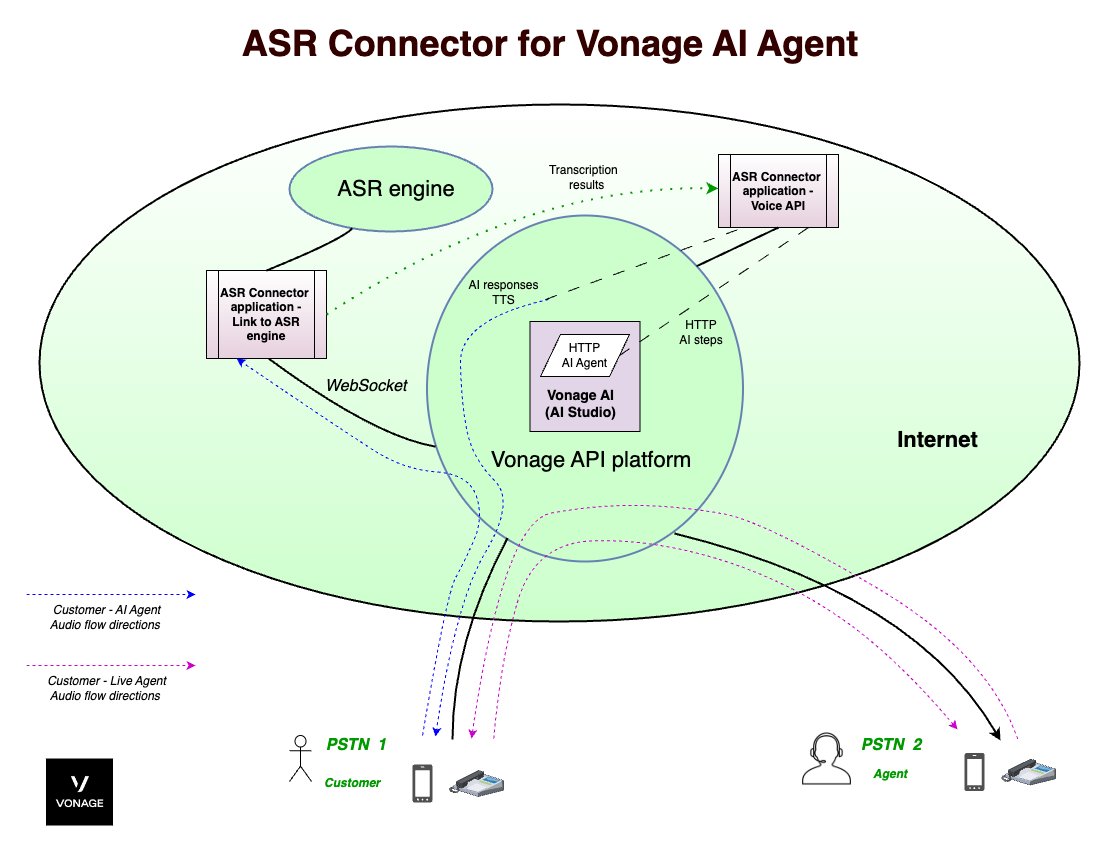
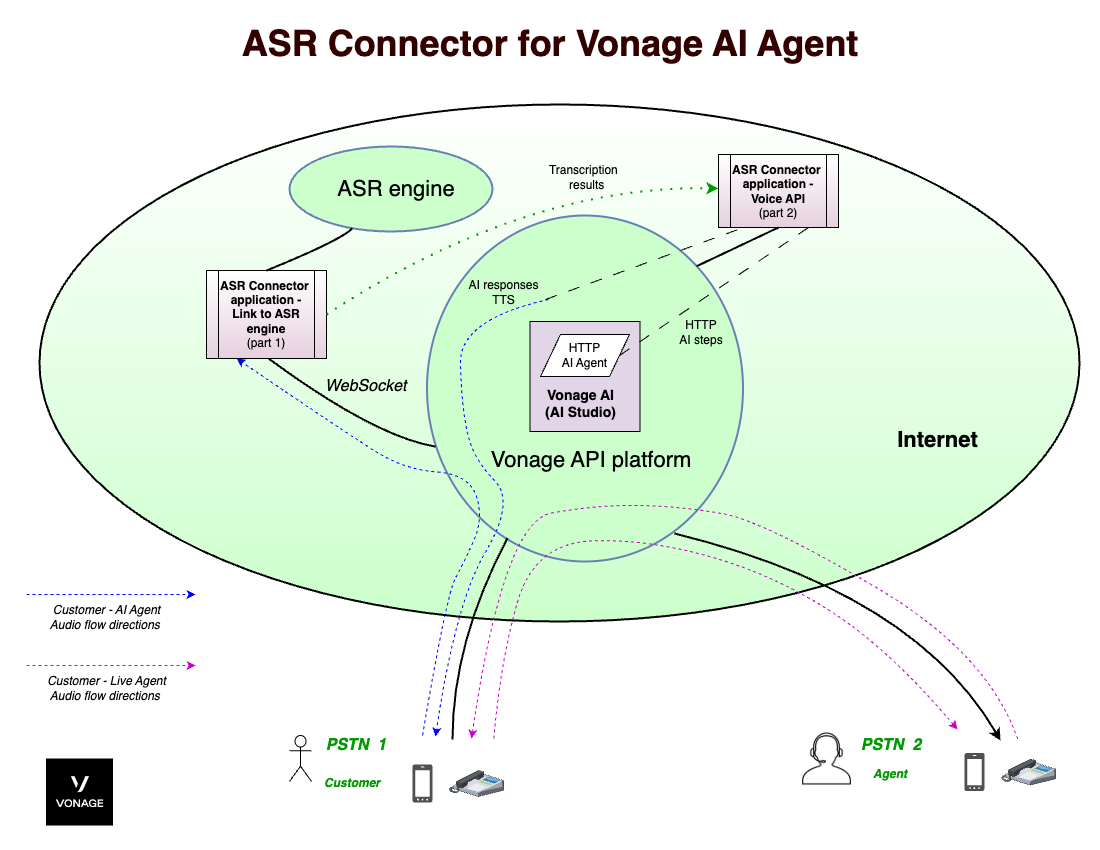
diagram

Changed region(s): [[0.1855, 0.3059, 0.2782, 0.4282], [0.6491, 0.1835, 0.7418, 0.2753]]

diff --git a/README.md b/README.md
@@ -1,7 +1,35 @@
-
-# Connector for Vonage AI Studio to use an external ASR engine
+# ASR Connector for Vonage AI Studio to use an external ASR engine
 
 >>> TBD update below content <<< NOT RELEVANT AT THE MOMENT !!!!!!!
+
+## What this sample HTTP AI Agent and ASR Connector do
+
+It shows you can use a third-party ASR (Automatic Speech Recognition) engine with a Vonage AI Agent.</br>
+
+An HTTP type **AI agent** (created in or imported to Vonage AI Studio) uses the **ASR Connector** to handle the voice connectivity including PSTN phone calls, WebRTC calls, or SIP calls, and the ASR engine connection, for speech recognition.
+
+How the call flow happens with the sample HTTP AI Agent and the ASR Connector in this repository,
+- A phone call is established first with, let's say, a customer,
+- Customer interacts with the Voice bot (via the AI agent),
+- Call gets transferred to, let's say, a live agent, and connection with the AI agent is terminated
+
+## How this sample HTTP AI Agent and ASR Connector work
+
+See also the diagram _vonage-ai-asr-connector.png_.
+
+In this diagram, the **ASR Connector** application is shown in two parts for easier description, however both parts are in one source code file in this repository.
+
+
+
+
+
+
+## Deploy the sample HTTP AI Agent
+
+
+
+
+
 
 ## Set up
 
